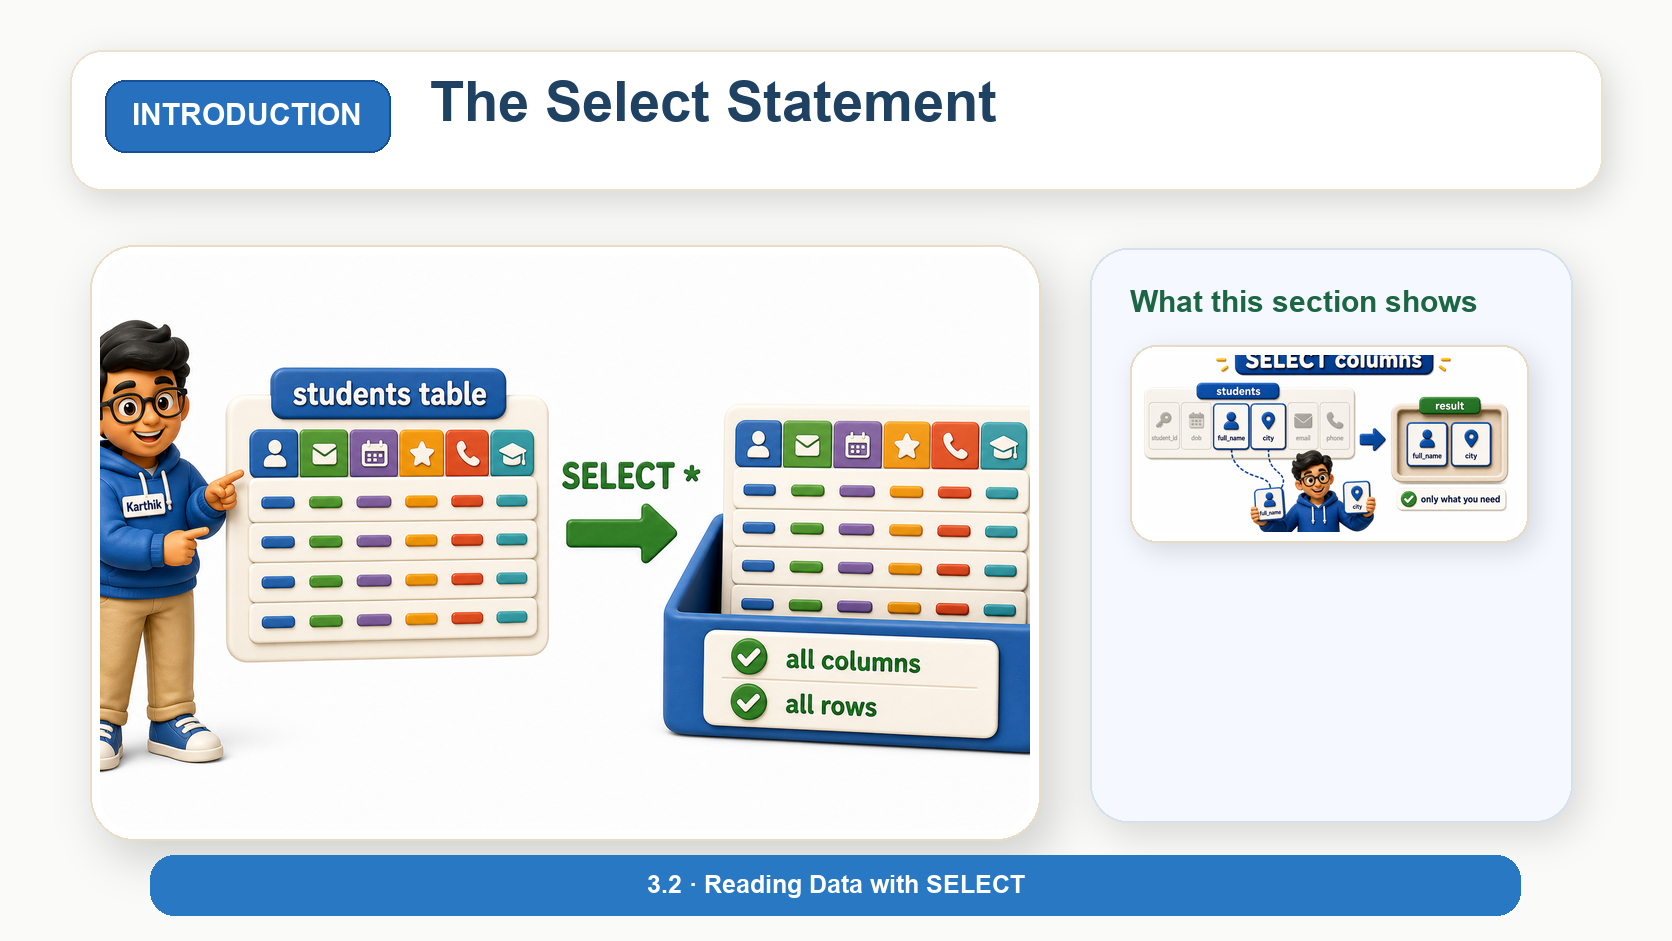
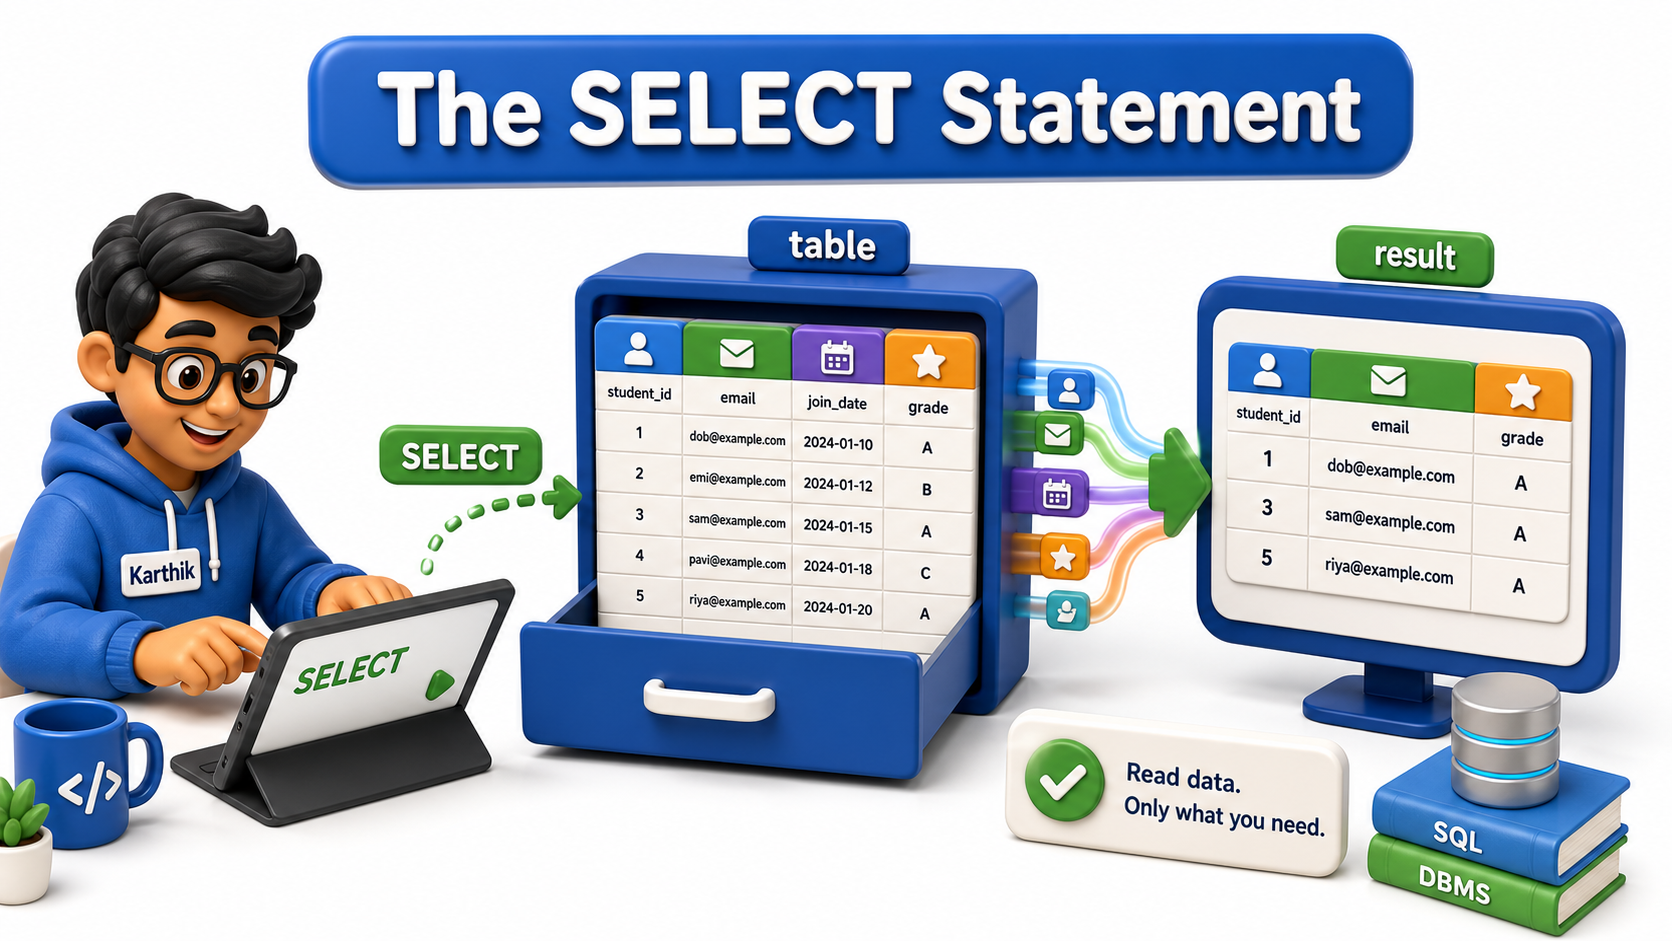
Replace unit 3.1 and 3.2 intro placeholders with actual 3D visuals

diff --git a/content/DBMS_Upload_Chapters/3.2 - Reading Data with SELECT/04_expressions_and_calculated_columns.md b/content/DBMS_Upload_Chapters/3.2 - Reading Data with SELECT/04_expressions_and_calculated_columns.md
@@ -11,7 +11,7 @@ A value built this way, out of columns and operators rather than read directly o
 
 **Definition:** Expressions turn a `SELECT` list from a plain menu of stored columns into a small calculator that runs once per row: arithmetic operators combine numbers, `||` combines text, and `AS` gives the result a name worth keeping.
 
-![Intro visual for expressions and calculated columns](https://s3.ap-south-1.amazonaws.com/static.bytexl.app/uploads/44sjn9mdv/content/images/04_intro_expressions_and_calculated_columns_matched_50527773.png)
+![Intro visual for expressions and calculated columns](https://s3.ap-south-1.amazonaws.com/static.bytexl.app/uploads/44sjn9mdv/content/images/04_intro_expressions_and_calculated_columns_actual3d_3ec650f9.png)
 
 ## Doing Arithmetic in a SELECT List
 

diff --git a/content/DBMS_Upload_Chapters/3.1 - Setting Up Your Environment/01_choosing_a_database_system.md b/content/DBMS_Upload_Chapters/3.1 - Setting Up Your Environment/01_choosing_a_database_system.md
@@ -16,7 +16,7 @@ He needs to understand what a **relational database management system**, a piece
 
 **Definition:** Choosing a database system is not about finding one flawless option and discarding the rest, it is about matching a system's actual design to the shape of the problem in front of you.
 
-![Intro visual for choosing a database system](https://s3.ap-south-1.amazonaws.com/static.bytexl.app/uploads/44sjn9mdv/content/images/01_intro_choosing_a_database_system_matched_498092cc.png)
+![Intro visual for choosing a database system](https://s3.ap-south-1.amazonaws.com/static.bytexl.app/uploads/44sjn9mdv/content/images/01_intro_choosing_a_database_system_actual3d_8781f80c.png)
 
 ## The Relational Family Ishaan Keeps Running Into
 

diff --git a/content/DBMS_Upload_Chapters/3.2 - Reading Data with SELECT/06_limiting_results.md b/content/DBMS_Upload_Chapters/3.2 - Reading Data with SELECT/06_limiting_results.md
@@ -6,7 +6,7 @@ Pulling the whole table and cutting it down to five rows in whatever code render
 
 **Definition:** `LIMIT` trims a result down to a manageable number of rows, and `OFFSET` lets a query skip past rows already handled, together making dashboard previews and paginated views practical without ever pulling more data than a screen can use.
 
-![Intro visual for limiting results](https://s3.ap-south-1.amazonaws.com/static.bytexl.app/uploads/44sjn9mdv/content/images/06_intro_limiting_results_matched_a958b78a.png)
+![Intro visual for limiting results](https://s3.ap-south-1.amazonaws.com/static.bytexl.app/uploads/44sjn9mdv/content/images/06_intro_limiting_results_actual3d_3a97d7ed.png)
 
 ## Cutting a Result Down to N Rows
 

diff --git a/content/DBMS_Upload_Chapters/3.2 - Reading Data with SELECT/03_distinct_removing_duplicate_rows.md b/content/DBMS_Upload_Chapters/3.2 - Reading Data with SELECT/03_distinct_removing_duplicate_rows.md
@@ -6,7 +6,7 @@ She scrolls through the list herself, mentally crossing off repeats, to work out
 
 **Definition:** `DISTINCT` strips a result down to its genuinely unique rows, whether uniqueness is judged on a single column or on the combination of every column named in the `SELECT` list.
 
-![Intro visual for distinct removing duplicate rows](https://s3.ap-south-1.amazonaws.com/static.bytexl.app/uploads/44sjn9mdv/content/images/03_intro_distinct_removing_duplicate_rows_matched_f7a213f9.png)
+![Intro visual for distinct removing duplicate rows](https://s3.ap-south-1.amazonaws.com/static.bytexl.app/uploads/44sjn9mdv/content/images/03_intro_distinct_removing_duplicate_rows_actual3d_460189d4.png)
 
 ## The Repeated-Rows Problem
 

diff --git a/content/DBMS_Upload_Chapters/3.2 - Reading Data with SELECT/02_column_aliases_and_table_aliases_with_as.md b/content/DBMS_Upload_Chapters/3.2 - Reading Data with SELECT/02_column_aliases_and_table_aliases_with_as.md
@@ -6,7 +6,7 @@ For her own work that is fine, but this sheet is going in front of people who ha
 
 **Definition:** Aliases let a query speak in whatever words are most useful to whoever is reading the result, without ever touching the underlying table.
 
-![Intro visual for column aliases and table aliases with as](https://s3.ap-south-1.amazonaws.com/static.bytexl.app/uploads/44sjn9mdv/content/images/02_intro_column_aliases_and_table_aliases_with_as_matched_b6e26810.png)
+![Intro visual for column aliases and table aliases with as](https://s3.ap-south-1.amazonaws.com/static.bytexl.app/uploads/44sjn9mdv/content/images/02_intro_column_aliases_and_table_aliases_with_as_actual3d_75d1fd35.png)
 
 ## Renaming a Column With AS
 

diff --git a/content/DBMS_Upload_Chapters/3.2 - Reading Data with SELECT/01_the_select_statement.md b/content/DBMS_Upload_Chapters/3.2 - Reading Data with SELECT/01_the_select_statement.md
@@ -6,7 +6,7 @@ He is not filtering anything, not searching for one particular person, not doing
 
 **Definition:** The `SELECT` statement is the starting point of nearly every piece of SQL anyone writes: name the columns you want, name the table they live in, and the database hands back exactly that slice of data.
 
-![Intro visual for the select statement](https://s3.ap-south-1.amazonaws.com/static.bytexl.app/uploads/44sjn9mdv/content/images/01_intro_the_select_statement_matched_e1a9a149.png)
+![Intro visual for the select statement](https://s3.ap-south-1.amazonaws.com/static.bytexl.app/uploads/44sjn9mdv/content/images/01_intro_the_select_statement_actual3d_ee019163.png)
 
 ## Asking For Everything in a Table
 

diff --git a/content/DBMS_Upload_Chapters/3.2 - Reading Data with SELECT/05_sorting_results.md b/content/DBMS_Upload_Chapters/3.2 - Reading Data with SELECT/05_sorting_results.md
@@ -8,7 +8,7 @@ The clause that asks for one is **`ORDER BY`**, and it is what turns an unpredic
 
 **Definition:** `ORDER BY` replaces an unpredictable row order with one you actually chose, ascending by default or reversed with DESC, and it can chain several columns together so later ones only settle ties left by earlier ones.
 
-![Intro visual for sorting results](https://s3.ap-south-1.amazonaws.com/static.bytexl.app/uploads/44sjn9mdv/content/images/05_intro_sorting_results_matched_3dd52b38.png)
+![Intro visual for sorting results](https://s3.ap-south-1.amazonaws.com/static.bytexl.app/uploads/44sjn9mdv/content/images/05_intro_sorting_results_actual3d_4201d397.png)
 
 ## Sorting Ascending, the Default
 

diff --git a/content/DBMS/3 - SQL Essentials/3.2 - Reading Data with SELECT/02_column_aliases_and_table_aliases_with_as.md b/content/DBMS/3 - SQL Essentials/3.2 - Reading Data with SELECT/02_column_aliases_and_table_aliases_with_as.md
@@ -20,7 +20,7 @@ ON-IMAGE TEXT: show a short bold title "Column Aliases And Table Aliases With As
 GOAL: make the opening idea instantly clear and engaging while matching the existing DBMS reading-material image standards.
 -->
 
-![Intro visual for column aliases and table aliases with as](https://s3.ap-south-1.amazonaws.com/static.bytexl.app/uploads/44sjn9mdv/content/images/02_intro_column_aliases_and_table_aliases_with_as_matched_b6e26810.png)
+![Intro visual for column aliases and table aliases with as](https://s3.ap-south-1.amazonaws.com/static.bytexl.app/uploads/44sjn9mdv/content/images/02_intro_column_aliases_and_table_aliases_with_as_actual3d_75d1fd35.png)
 
 ## Renaming a Column With AS
 

diff --git a/content/DBMS/3 - SQL Essentials/3.2 - Reading Data with SELECT/04_expressions_and_calculated_columns.md b/content/DBMS/3 - SQL Essentials/3.2 - Reading Data with SELECT/04_expressions_and_calculated_columns.md
@@ -25,7 +25,7 @@ ON-IMAGE TEXT: show a short bold title "Expressions And Calculated Columns" plus
 GOAL: make the opening idea instantly clear and engaging while matching the existing DBMS reading-material image standards.
 -->
 
-![Intro visual for expressions and calculated columns](https://s3.ap-south-1.amazonaws.com/static.bytexl.app/uploads/44sjn9mdv/content/images/04_intro_expressions_and_calculated_columns_matched_50527773.png)
+![Intro visual for expressions and calculated columns](https://s3.ap-south-1.amazonaws.com/static.bytexl.app/uploads/44sjn9mdv/content/images/04_intro_expressions_and_calculated_columns_actual3d_3ec650f9.png)
 
 ## Doing Arithmetic in a SELECT List
 

diff --git a/content/DBMS/3 - SQL Essentials/3.2 - Reading Data with SELECT/03_distinct_removing_duplicate_rows.md b/content/DBMS/3 - SQL Essentials/3.2 - Reading Data with SELECT/03_distinct_removing_duplicate_rows.md
@@ -20,7 +20,7 @@ ON-IMAGE TEXT: show a short bold title "Distinct Removing Duplicate Rows" plus o
 GOAL: make the opening idea instantly clear and engaging while matching the existing DBMS reading-material image standards.
 -->
 
-![Intro visual for distinct removing duplicate rows](https://s3.ap-south-1.amazonaws.com/static.bytexl.app/uploads/44sjn9mdv/content/images/03_intro_distinct_removing_duplicate_rows_matched_f7a213f9.png)
+![Intro visual for distinct removing duplicate rows](https://s3.ap-south-1.amazonaws.com/static.bytexl.app/uploads/44sjn9mdv/content/images/03_intro_distinct_removing_duplicate_rows_actual3d_460189d4.png)
 
 ## The Repeated-Rows Problem
 

diff --git a/content/DBMS/3 - SQL Essentials/3.1 - Setting Up Your Environment/01_choosing_a_database_system.md b/content/DBMS/3 - SQL Essentials/3.1 - Setting Up Your Environment/01_choosing_a_database_system.md
@@ -30,7 +30,7 @@ ON-IMAGE TEXT: show a short bold title "Choosing A Database System" plus only th
 GOAL: make the opening idea instantly clear and engaging while matching the existing DBMS reading-material image standards.
 -->
 
-![Intro visual for choosing a database system](https://s3.ap-south-1.amazonaws.com/static.bytexl.app/uploads/44sjn9mdv/content/images/01_intro_choosing_a_database_system_matched_498092cc.png)
+![Intro visual for choosing a database system](https://s3.ap-south-1.amazonaws.com/static.bytexl.app/uploads/44sjn9mdv/content/images/01_intro_choosing_a_database_system_actual3d_8781f80c.png)
 
 ## The Relational Family Ishaan Keeps Running Into
 

diff --git a/content/DBMS/3 - SQL Essentials/3.2 - Reading Data with SELECT/01_the_select_statement.md b/content/DBMS/3 - SQL Essentials/3.2 - Reading Data with SELECT/01_the_select_statement.md
@@ -20,7 +20,7 @@ ON-IMAGE TEXT: show a short bold title "The Select Statement" plus only these fe
 GOAL: make the opening idea instantly clear and engaging while matching the existing DBMS reading-material image standards.
 -->
 
-![Intro visual for the select statement](https://s3.ap-south-1.amazonaws.com/static.bytexl.app/uploads/44sjn9mdv/content/images/01_intro_the_select_statement_matched_e1a9a149.png)
+![Intro visual for the select statement](https://s3.ap-south-1.amazonaws.com/static.bytexl.app/uploads/44sjn9mdv/content/images/01_intro_the_select_statement_actual3d_ee019163.png)
 
 ## Asking For Everything in a Table
 
